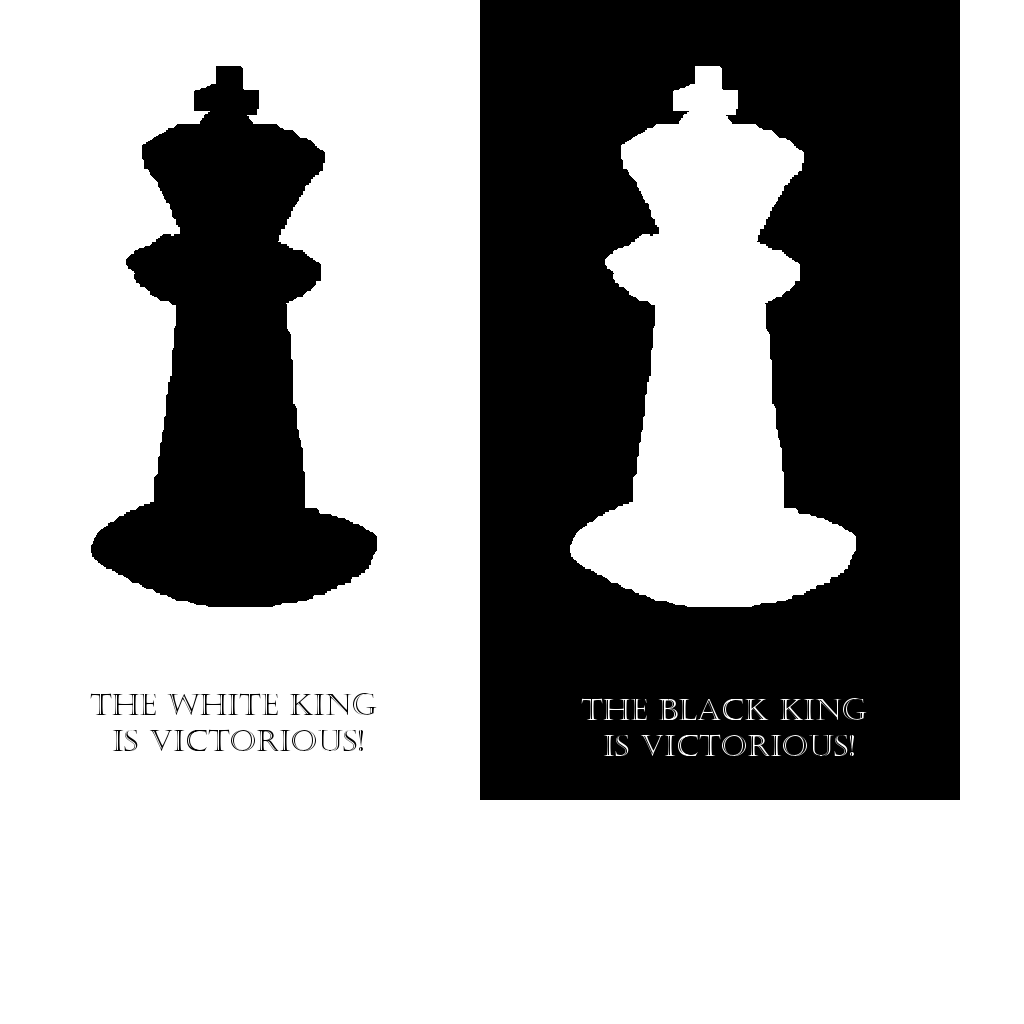
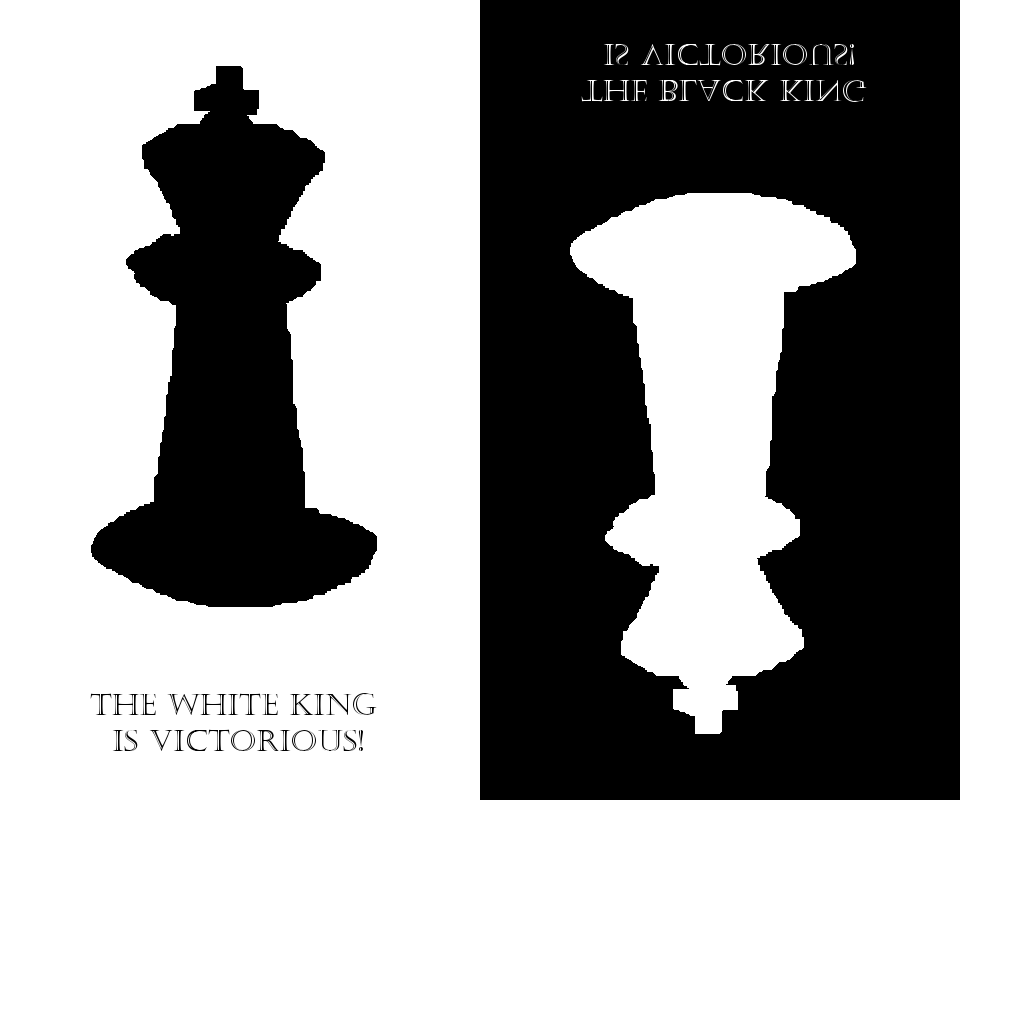
Flipped the black victory screen, and made it so you can no longer castle out of check. Closed #1, #2.

diff --git a/RidiculousChess/src/com/natman/chess/ChessBoard.java b/RidiculousChess/src/com/natman/chess/ChessBoard.java
@@ -194,7 +194,7 @@ public final class ChessBoard implements InputProcessor {
 		return freshCastles;
 	}
 	
-	public void render(SpriteBatch spriteBatch) {
+	public void render(SpriteBatch spriteBatch) {		
 		boardSprite.draw(spriteBatch);
 		
 		for (int y = 0; y < BOARD_HEIGHT; y++) {
@@ -302,7 +302,7 @@ public final class ChessBoard implements InputProcessor {
 	}
 	
 	private void toggleTeam() {
-		//de-passant tag
+		
 		for (int y = 0; y < BOARD_HEIGHT; y++) {
 			for (int x = 0; x < BOARD_WIDTH; x++) {
 				ChessPiece piece = board[x][y];
@@ -313,7 +313,7 @@ public final class ChessBoard implements InputProcessor {
 					if (piece instanceof Pawn) {
 						Pawn pwn = (Pawn) piece;
 						if (pwn.PASSANTMEBRO) {
-							pwn.PASSANTMEBRO = false;
+							pwn.PASSANTMEBRO = false; //de passant tag
 						}
 					}
 				}
@@ -324,8 +324,42 @@ public final class ChessBoard implements InputProcessor {
 		selectedPiece = null;
 		
 		timer.reset();
+	
 	}
 
+	public void checkForCheck() {
+
+		for (int y = 0; y < BOARD_HEIGHT; y++) {
+			for (int x = 0; x < BOARD_WIDTH; x++) {
+				ChessPiece piece = board[x][y];
+				
+				if (piece == null) continue;
+				
+				if (piece instanceof King) {
+					((King) piece).IS_IN_CHECK = false;
+				}
+			}
+		}
+		
+		for (int y = 0; y < BOARD_HEIGHT; y++) {
+			for (int x = 0; x < BOARD_WIDTH; x++) {
+				ChessPiece piece = board[x][y];
+				
+				if (piece == null || piece instanceof King) continue;
+				
+				for (Point point : piece.getMovePoints(this)) {
+					ChessPiece p2 = getPiece(point.x, point.y);
+					
+					if (p2 instanceof King && p2.getTeam() != piece.getTeam()) {
+						((King) p2).IS_IN_CHECK = true; //check for check
+					}
+				}
+				
+			}
+		}
+		
+	}
+	
 	@Override
 	public boolean keyDown(int keycode) {
 		// TODO Auto-generated method stub
@@ -381,7 +415,7 @@ public final class ChessBoard implements InputProcessor {
 						}
 					}
 					
-					movePiece(selectedPiece.position, p);
+					movePiece(selectedPiece.position, p);					
 					selectedPiece = null;
 					toggleTeam();
 				}

diff --git a/RidiculousChess/src/com/natman/chess/pieces/King.java b/RidiculousChess/src/com/natman/chess/pieces/King.java
@@ -14,6 +14,8 @@ public class King extends ChessPiece {
 	private boolean positionSet = false;
 	private boolean moved = false;
 	
+	public boolean IS_IN_CHECK = false;
+	
 	public King(boolean team) {
 		super(team);
 	}
@@ -38,9 +40,11 @@ public class King extends ChessPiece {
 	
 	@Override
 	protected Array<Point> getMovePoints(ChessBoard board) {
+		board.checkForCheck();
+		
 		Array<Point> movePoints = new Array<Point>();
 		
-		if (!moved && board.getFreshCastles(team).size > 0) {
+		if (!moved && !IS_IN_CHECK && board.getFreshCastles(team).size > 0) {
 			for (Castle castle : board.getFreshCastles(team)) {
 				boolean canCastleTo = true;
 				Point loc = new Point(castle.getPosition());

diff --git a/RidiculousChess/src/com/natman/chess/ImageScreen.java b/RidiculousChess/src/com/natman/chess/ImageScreen.java
@@ -1,6 +1,5 @@
 package com.natman.chess;
 
-import com.badlogic.gdx.Gdx;
 import com.badlogic.gdx.Screen;
 import com.badlogic.gdx.files.FileHandle;
 import com.badlogic.gdx.graphics.Texture;
